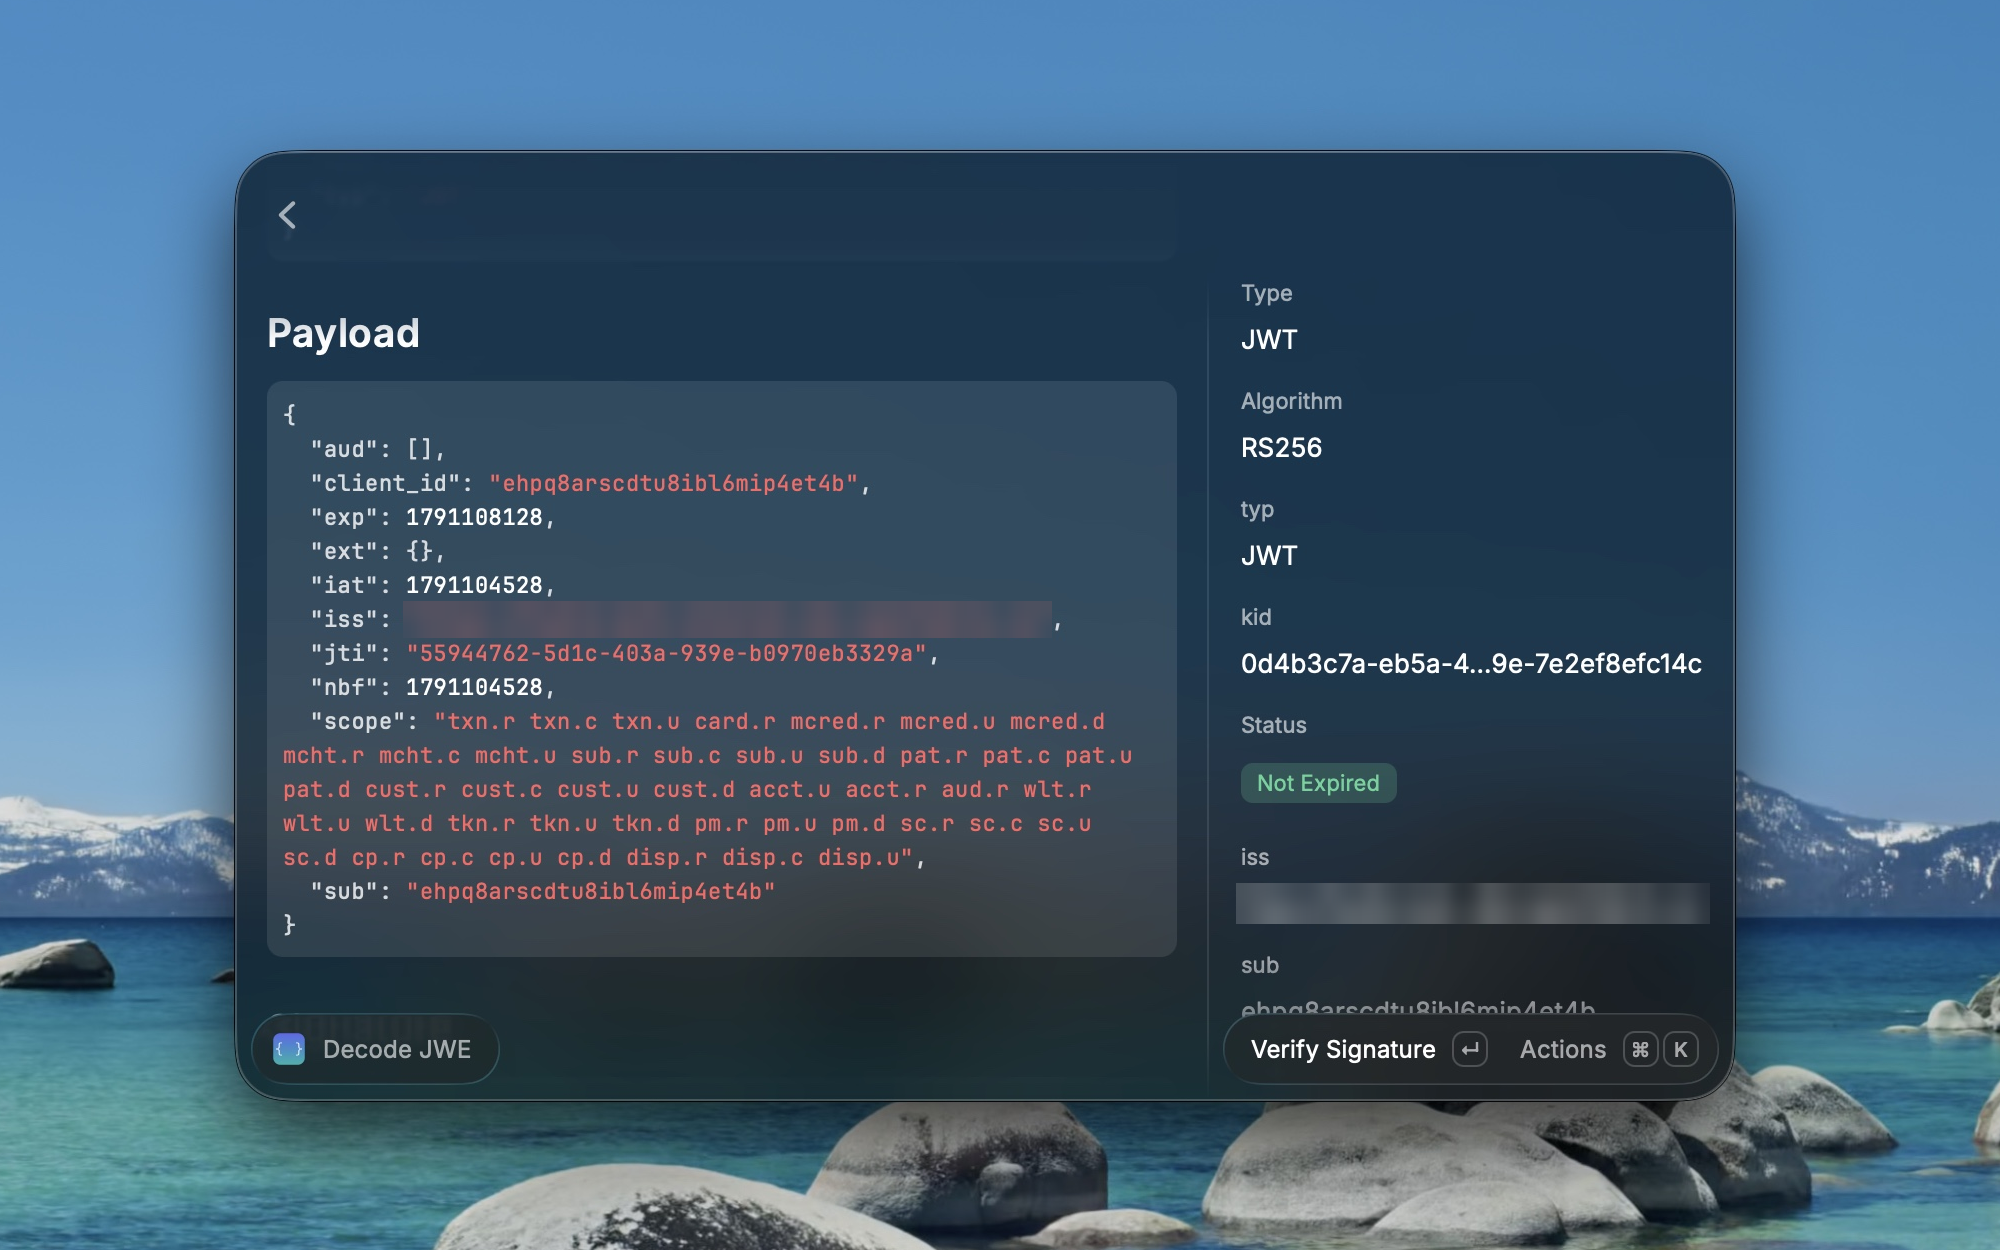
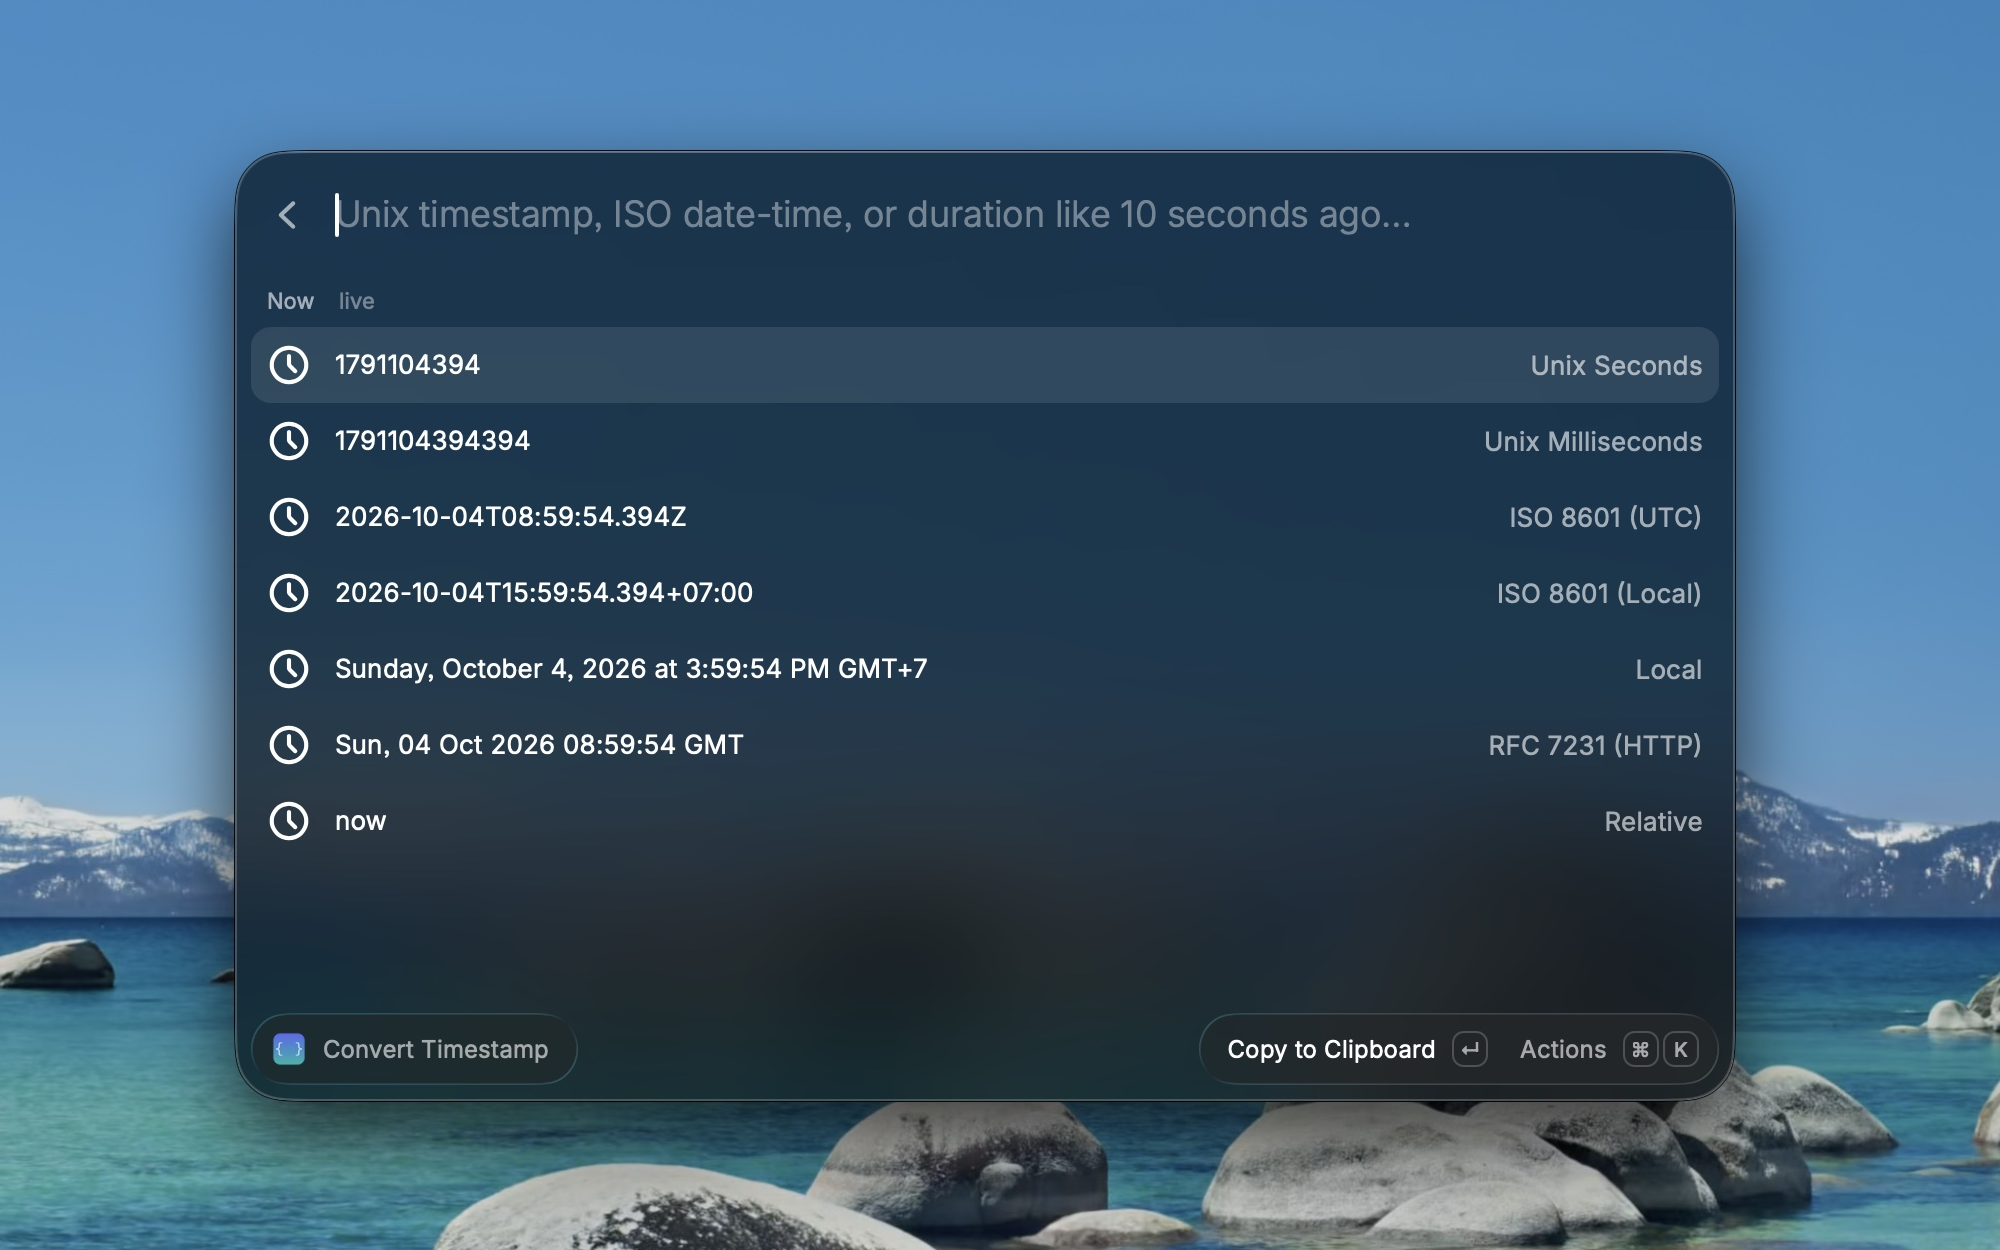
Address Raycast review: Store README, subtitles, codeBlock
- Keep README user-facing for the Store page; move the CI badge,
  development and license notes to CONTRIBUTING.md (source repo only)
- Add "Dev Essentials" subtitles so commands stand out in root search
- Find the longest backtick run with reduce instead of spreading every
  run into Math.max, which threw on large payloads
- Remove the two screenshots taken from real tokens; replacements will
  use mock tokens

diff --git a/src/lib/markdown.ts b/src/lib/markdown.ts
@@ -1,6 +1,6 @@
 /** Wraps content in a fence longer than any backtick run inside it, so token data can't close the block. */
 export function codeBlock(content: string, lang = ""): string {
-  const longestRun = Math.max(0, ...(content.match(/`+/g) ?? []).map((run) => run.length));
+  const longestRun = (content.match(/`+/g) ?? []).reduce((max, run) => Math.max(max, run.length), 0);
   const fence = "`".repeat(Math.max(3, longestRun + 1));
   return `${fence}${lang}\n${content}\n${fence}`;
 }

diff --git a/test/markdown.test.ts b/test/markdown.test.ts
@@ -12,3 +12,10 @@ describe("codeBlock", () => {
     expect(block.endsWith("\n`````")).toBe(true);
   });
 });
+
+describe("codeBlock with large input", () => {
+  it("handles more backtick runs than the engine allows as call arguments", () => {
+    const content = "a`".repeat(500_000) + "a````";
+    expect(codeBlock(content).startsWith("`````\n")).toBe(true);
+  });
+});

diff --git a/README.md b/README.md
@@ -1,7 +1,5 @@
 # Dev Essentials
 
-[![CI](https://github.com/vinh0604/raycast-devutils/actions/workflows/ci.yml/badge.svg)](https://github.com/vinh0604/raycast-devutils/actions/workflows/ci.yml)
-
 Everyday developer utilities for Raycast: UUIDs, Unix timestamps, and JWT / JWS / JWE tokens.
 
 | Command | Usage | What it does |
@@ -20,17 +18,3 @@ Run with no token, the Decode JWT/JWS/JWE commands open a menu and offer any tok
 **Keys:** you can enter a shared secret (UTF-8, Base64, Base64URL or hex), a PEM (SPKI/PKCS#8/PKCS#1/SEC1 key or X.509 certificate), a JWK, a JWKS, or, for verification only, a JWKS URL. If you give a private key where a public key is needed, the public key is derived from it. Press `⌘G` in the sign/encrypt forms to generate a matching key or key pair.
 
 Tip: set Raycast aliases (`uuid`, `ts`, `jwt`, …) in Raycast Settings → Extensions so you can type the alias followed by the argument.
-
-## Development
-
-```sh
-npm install
-npm run dev     # load into Raycast with hot reload
-npm test        # unit tests (vitest)
-npm run lint    # ESLint, Prettier and Raycast Store validation
-npm run publish # submit to the Raycast Store
-```
-
-## License
-
-[MIT](LICENSE)

diff --git a/CONTRIBUTING.md b/CONTRIBUTING.md
@@ -1,0 +1,25 @@
+# Contributing
+
+[![CI](https://github.com/vinh0604/raycast-devutils/actions/workflows/ci.yml/badge.svg)](https://github.com/vinh0604/raycast-devutils/actions/workflows/ci.yml)
+
+This is the source repo for the [Dev Essentials](README.md) Raycast extension. `README.md` doubles as the Raycast Store page, so keep it user-facing and put developer notes here.
+
+## Development
+
+```sh
+npm install
+npm run dev     # load into Raycast with hot reload
+npm test        # unit tests (vitest)
+npm run lint    # ESLint, Prettier and Raycast Store validation
+npm run build   # production build
+```
+
+## Publishing
+
+`npm run publish` submits the extension to the Raycast Store as a pull request on [raycast/extensions](https://github.com/raycast/extensions). It needs an interactive terminal for the GitHub sign-in.
+
+`.github/`, `LICENSE` and this file stay in this repo only; they are not part of the Store copy.
+
+## License
+
+[MIT](LICENSE)
